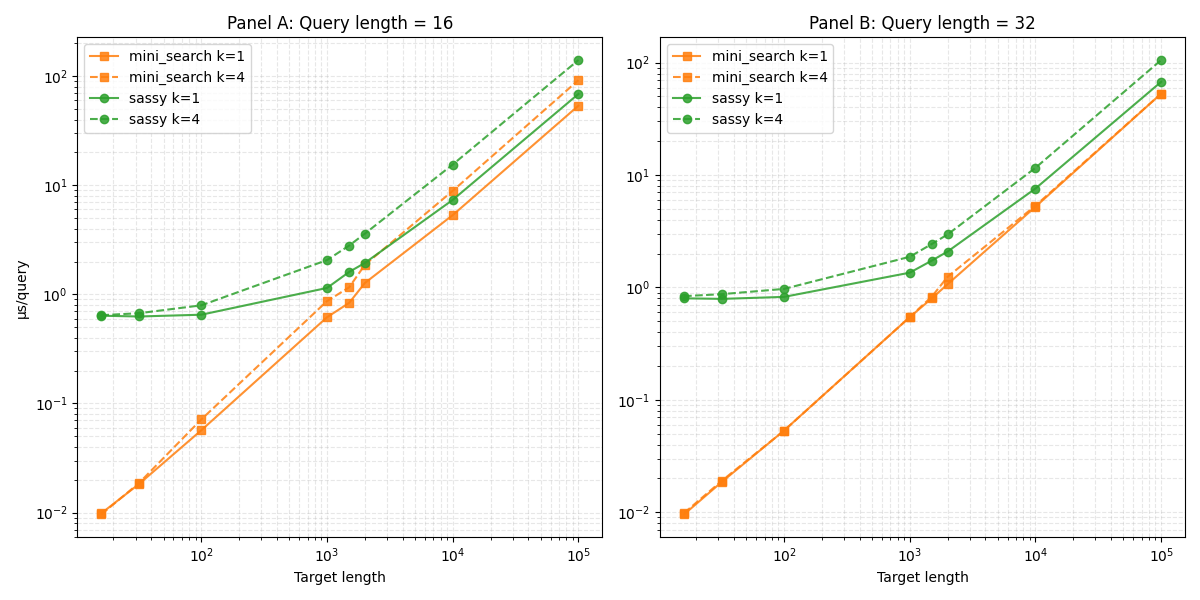
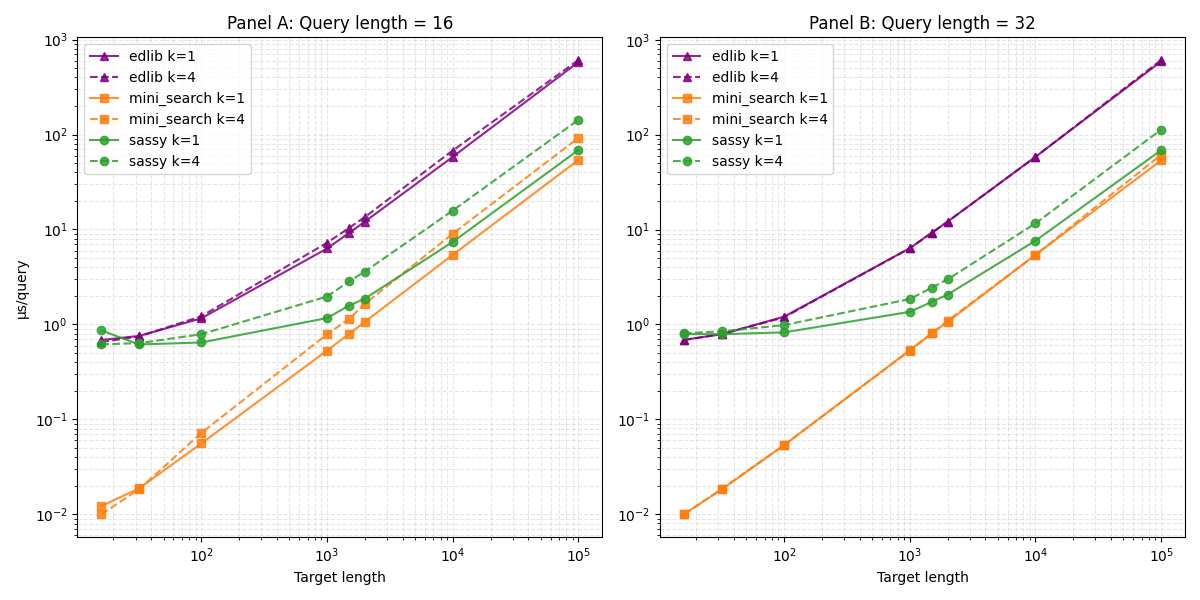
add edlib bench

diff --git a/benches/sassy.rs b/benches/sassy.rs
@@ -1,3 +1,6 @@
+mod edlib_bench;
+
+use edlib_bench::{get_edlib_config, run_edlib, sim_data::Alphabet};
 use mini_myers::backend::U32;
 use mini_myers::search::Searcher as MiniSearcher;
 use mini_myers::TQueries;
@@ -54,13 +57,14 @@ fn run() -> Result<(), Box<dyn std::error::Error>> {
     for target_len in &target_lens {
         for query_len in &query_lens {
             for k in &ks {
-                let (mini_search, sassy) =
+                let (mini_search, sassy, edlib) =
                     run_bench_round(&mut rng, *target_len, *query_len, iterations, *k, n_queries);
 
                 println!(
                     "T={:<7} Q={:<2} K={} | \
                     Search: {:>7.3}ms ({:>7.3}µs/q) | \
-                    Sassy:  {:>7.3}ms ({:>7.3}µs/q)",
+                    Sassy:  {:>7.3}ms ({:>7.3}µs/q) | \
+                    Edlib:  {:>7.3}ms ({:>7.3}µs/q)",
                     target_len,
                     query_len,
                     k,
@@ -68,10 +72,13 @@ fn run() -> Result<(), Box<dyn std::error::Error>> {
                     mini_search.avg_per_query_us(),
                     sassy.avg_batch_ms(),
                     sassy.avg_per_query_us(),
+                    edlib.avg_batch_ms(),
+                    edlib.avg_per_query_us(),
                 );
 
                 results.push(mini_search);
                 results.push(sassy);
+                results.push(edlib);
             }
         }
     }
@@ -92,7 +99,7 @@ fn run_bench_round(
     iterations: usize,
     k: u8,
     n_queries: usize,
-) -> (BenchResult, BenchResult) {
+) -> (BenchResult, BenchResult, BenchResult) {
     let target = generate_random_dna(rng, target_len);
     let mut queries = Vec::new();
     for _ in 0..n_queries {
@@ -103,6 +110,9 @@ fn run_bench_round(
     let t_queries_u32 = TQueries::<U32>::new(&queries, true);
     let mut searcher_u32 = MiniSearcher::<U32>::new(None);
 
+    // Setup edlib config
+    let edlib_config = get_edlib_config(k as i32, &Alphabet::Dna);
+
     let mut sassy_matches = 0;
     for q in &queries {
         sassy_matches += sassy_searcher.search_all(q, &target, k as usize).len();
@@ -111,6 +121,15 @@ fn run_bench_round(
     // Mini Search Count
     let mini_search_res = searcher_u32.trace_all_hits(&t_queries_u32, &target, k as u32);
     let mini_search_matches: usize = mini_search_res.len();
+
+    // Edlib Count - count matches by checking edit distance
+    let mut edlib_matches = 0;
+    for q in &queries {
+        let result = run_edlib(q, &target, &edlib_config);
+        if result.editDistance >= 0 && result.editDistance <= k as i32 {
+            edlib_matches += 1;
+        }
+    }
 
     // Mini Scan Count
     // let mini_scan_res = searcher_u32.trace_all_hits(&t_queries_u32, &target, k as u32);
@@ -128,6 +147,14 @@ fn run_bench_round(
     let mini_search_time = time_iterations(iterations, || {
         let m = searcher_u32.trace_all_hits(&t_queries_u32, &target, k as u32);
         black_box(m);
+    });
+
+    // Time Edlib
+    let edlib_time = time_iterations(iterations, || {
+        for q in &queries {
+            let result = run_edlib(q, &target, &edlib_config);
+            black_box(result);
+        }
     });
 
     // // Time Mini Scan
@@ -174,7 +201,19 @@ fn run_bench_round(
         avg_per_query_ns: average_per_query(sassy_time, iterations, queries_per_iter),
     };
 
-    (res_search, res_sassy)
+    let res_edlib = BenchResult {
+        tool: "edlib",
+        target_len,
+        query_len,
+        k,
+        iterations,
+        queries_per_iter,
+        num_matches: edlib_matches,
+        avg_batch_ns: average_per_batch(edlib_time, iterations),
+        avg_per_query_ns: average_per_query(edlib_time, iterations, queries_per_iter),
+    };
+
+    (res_search, res_sassy, res_edlib)
 }
 
 fn generate_random_dna(rng: &mut StdRng, len: usize) -> Vec<u8> {

diff --git a/benches/edlib_bench.rs b/benches/edlib_bench.rs
@@ -1,0 +1,71 @@
+use ::std::os::raw::c_char;
+use edlib_rs::edlib_sys::*;
+use edlib_rs::*;
+use once_cell::sync::Lazy;
+use sassy::profiles::*;
+
+// from sassy bench
+
+pub mod sim_data {
+    #[derive(PartialEq, Clone, Copy)]
+    pub enum Alphabet {
+        Dna,
+        Iupac,
+    }
+}
+
+static EQUALITY_PAIRS: Lazy<Vec<EdlibEqualityPairRs>> = Lazy::new(build_equality_pairs);
+
+pub fn get_edlib_config(k: i32, alphabet: &sim_data::Alphabet) -> EdlibAlignConfigRs<'static> {
+    let mut config = EdlibAlignConfigRs::default();
+    config.mode = EdlibAlignModeRs::EDLIB_MODE_HW;
+    if alphabet == &sim_data::Alphabet::Iupac {
+        println!("[EDLIB] Added iupac alphabet");
+        config.additionalequalities = &EQUALITY_PAIRS;
+    }
+    config.k = k;
+    config.task = EdlibAlignTaskRs::EDLIB_TASK_PATH;
+    config
+}
+
+fn build_equality_pairs() -> Vec<EdlibEqualityPairRs> {
+    let codes = b"ACGTURYSWKMBDHVNX";
+    let mut pairs = Vec::new();
+    for &a in codes.iter() {
+        for &b in codes.iter() {
+            if Iupac::is_match(a, b) {
+                // both upper
+                pairs.push(EdlibEqualityPairRs {
+                    first: a as c_char,
+                    second: b as c_char,
+                });
+                // both lower
+                pairs.push(EdlibEqualityPairRs {
+                    first: a.to_ascii_lowercase() as c_char,
+                    second: b.to_ascii_lowercase() as c_char,
+                });
+                // first upper, second lower
+                pairs.push(EdlibEqualityPairRs {
+                    first: a.to_ascii_lowercase() as c_char,
+                    second: b as c_char,
+                });
+                // first lower, second upper
+                pairs.push(EdlibEqualityPairRs {
+                    first: a as c_char,
+                    second: b.to_ascii_lowercase() as c_char,
+                });
+            }
+        }
+    }
+    pairs
+}
+
+pub fn run_edlib(
+    query: &[u8],
+    target: &[u8],
+    edlib_config: &EdlibAlignConfigRs,
+) -> EdlibAlignResultRs {
+    let edlib_result = edlibAlignRs(query, target, edlib_config);
+    assert_eq!(edlib_result.status, EDLIB_STATUS_OK);
+    edlib_result
+}

diff --git a/README.md b/README.md
@@ -87,8 +87,8 @@ let alignments = searcher.trace_all_hits(&t_queries, text, k);
 ---
 
 #### Little bench
-Comparing mini search against [sassy](https://github.com/RagnarGrootKoerkamp/sassy.git) `search_all`
-for 96 queries of length [16, 32] at k=[1,4] in a range of targets (x-axis)
+Comparing mini search (orange) against [sassy](https://github.com/RagnarGrootKoerkamp/sassy.git)(green) `search_all`, 
+and [edlib](https://github.com/Martinsos/edlib)(purple) for 96 queries of length [16, 32] at k=[1,4] in a range of targets (x-axis)
 
 <img src="test_data/bench.png" alt="mini_scan vs sassy benchmark plot" width="800"/>
 
